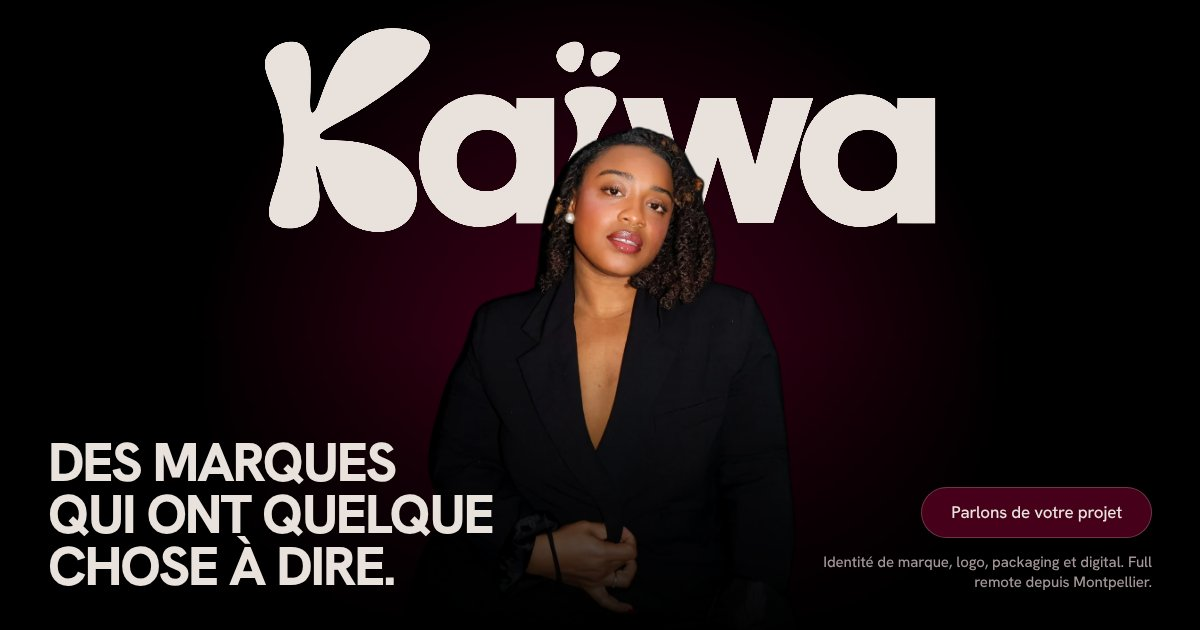
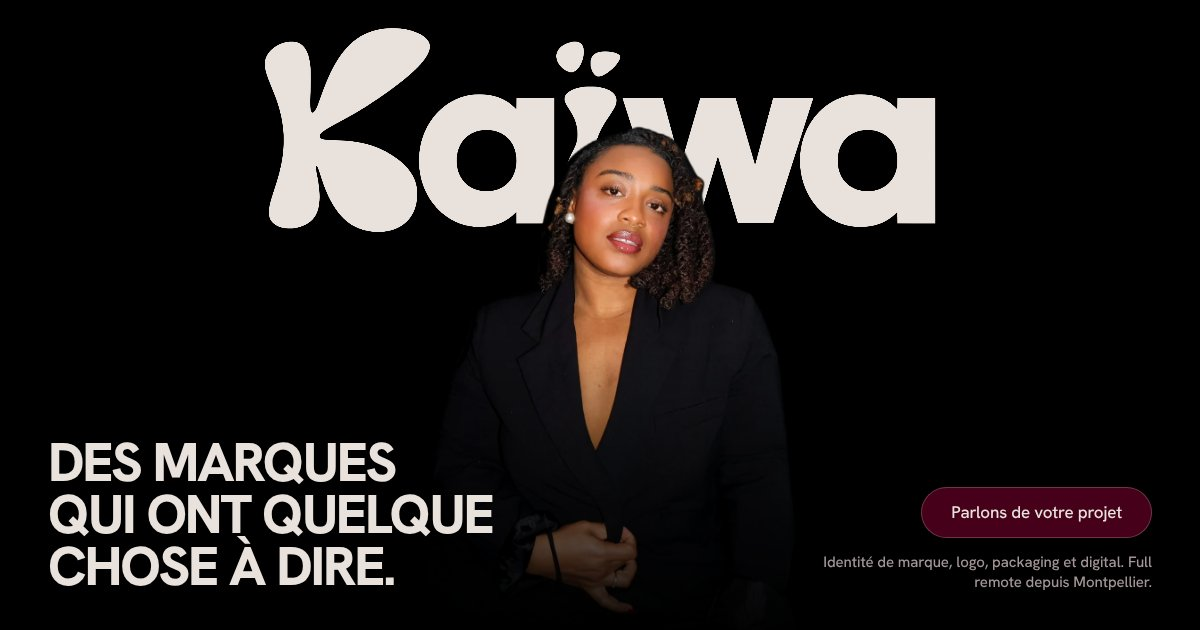
Keep the hero stage pure black behind the Kaïwa wordmark
Claude-Session: https://claude.ai/code/session_01SReykUvmbXh6gMu6iUEoV7

diff --git a/index.html b/index.html
@@ -491,7 +491,6 @@ dialog.cs::backdrop { background: rgb(0 0 0 / 0.7); -webkit-backdrop-filter: blu
   <div class="hero-pin">
     <div class="hero-word" id="heroWord"><svg class="hw" viewBox="-20 -20 2334 740" role="img" aria-label="Kaïwa"><g fill="currentColor"><g class="hw-l" style="--i:0"><path style="transform-origin:286px 696px" fill-rule="evenodd" d="M405.72 695.49C419.87 693.90 429.36 692.11 437.75 689.48C438.57 689.22 440.26 688.69 441.50 688.30C448.48 686.11 459.05 681.42 464.75 677.98C466.12 677.16 467.59 676.33 468.00 676.15C471.97 674.43 485.33 663.73 490.79 657.90C500.08 647.96 508.53 634.97 513.17 623.50C513.67 622.26 514.27 620.80 514.51 620.25C514.93 619.30 517.52 611.41 518.46 608.25C522.86 593.41 525.02 570.51 523.48 555.00C522.23 542.34 521.56 538.82 518.01 526.25C517.49 524.40 515.64 519.27 514.77 517.25C511.23 509.09 509.98 506.56 506.33 500.25C495.96 482.30 481.40 466.32 460.75 450.23C453.42 444.51 436.30 432.98 427.75 428.00C426.93 427.52 424.23 425.95 421.75 424.51C419.27 423.07 413.09 419.84 408.00 417.32C399.21 412.97 397.42 412.14 392.75 410.23C391.65 409.77 390.07 409.11 389.25 408.76C387.92 408.19 385.49 407.25 377.53 404.26C374.93 403.29 366.87 400.65 361.50 399.02C359.44 398.39 357.19 397.70 356.50 397.48C355.81 397.25 352.32 396.37 348.75 395.52C345.18 394.66 341.46 393.74 340.50 393.48C338.35 392.89 326.79 390.58 322.88 389.96C321.29 389.71 318.59 389.26 316.88 388.97C299.01 385.97 276.73 384.15 243.75 383.00C216.58 382.05 206.91 381.14 200.25 378.88C187.96 374.73 187.82 365.76 199.88 355.70C203.10 353.03 216.13 344.00 216.78 344.00C216.96 344.00 217.69 343.58 218.42 343.06C219.15 342.54 220.59 341.64 221.62 341.06C222.66 340.48 224.29 339.55 225.25 339.00C230.05 336.26 230.90 335.78 232.75 334.75C233.85 334.14 236.10 332.90 237.75 332.00C239.40 331.10 241.76 329.80 243.00 329.11C244.24 328.42 246.71 327.07 248.50 326.12C250.29 325.16 252.93 323.73 254.38 322.94C255.82 322.15 258.18 320.86 259.62 320.07C261.07 319.28 263.54 317.93 265.12 317.07C266.71 316.21 269.18 314.86 270.62 314.07C272.07 313.28 274.54 311.93 276.12 311.07C277.71 310.21 280.29 308.79 281.88 307.93C283.46 307.07 285.71 305.83 286.88 305.18C288.04 304.53 290.07 303.41 291.38 302.68C292.68 301.96 295.21 300.52 297.00 299.50C298.79 298.48 301.26 297.07 302.50 296.38C306.29 294.27 314.55 289.48 318.45 287.13C320.48 285.90 322.90 284.47 323.82 283.95C324.75 283.43 326.34 282.52 327.37 281.94C328.40 281.36 330.19 280.23 331.34 279.44C332.49 278.65 333.56 278.00 333.72 278.00C333.88 278.00 335.19 277.25 336.63 276.33C338.07 275.41 340.82 273.68 342.75 272.50C344.68 271.31 348.25 269.08 350.69 267.55C357.25 263.42 387.50 243.38 393.00 239.52C395.61 237.68 400.79 234.07 404.50 231.50C420.12 220.67 432.37 211.85 448.25 200.00C507.92 155.46 545.42 118.31 559.76 89.50C571.13 66.66 569.12 50.14 553.14 34.97C542.69 25.04 529.42 17.76 510.25 11.42C495.10 6.41 480.87 3.61 460.00 1.52C453.25 0.84 425.74 0.84 419.81 1.52C417.30 1.80 413.11 2.26 410.50 2.54C401.06 3.55 386.69 6.36 376.27 9.22C371.50 10.54 358.29 15.05 357.78 15.55C357.51 15.80 357.01 16.00 356.64 16.00C355.45 16.00 337.46 24.62 332.04 27.79C299.34 46.91 269.85 78.28 245.37 120.00C242.86 124.27 242.04 125.71 238.98 131.25C236.70 135.38 227.07 154.55 225.29 158.51C224.49 160.29 223.07 163.44 222.13 165.50C220.37 169.36 219.55 171.21 218.25 174.25C216.42 178.52 215.87 179.81 215.50 180.75C215.28 181.30 214.76 182.54 214.34 183.50C213.93 184.46 212.31 188.51 210.75 192.50C209.19 196.49 207.73 200.20 207.50 200.75C207.28 201.30 206.38 203.66 205.50 206.00C204.62 208.34 203.72 210.70 203.50 211.25C203.12 212.19 202.44 214.04 200.00 220.75C199.45 222.26 198.55 224.74 198.00 226.25C223.21 156.93 183.62 265.79 194.00 237.25C193.45 238.76 192.55 241.24 192.00 242.75C191.45 244.26 190.55 246.74 190.00 248.25C187.55 254.98 186.88 256.81 186.50 257.75C186.28 258.30 185.72 259.76 185.26 261.00C184.79 262.24 184.08 264.04 183.66 265.00C183.24 265.96 182.72 267.20 182.50 267.75C178.50 277.83 172.51 287.05 169.01 288.50C165.34 290.02 162.03 286.39 160.56 279.25C158.73 270.31 158.57 250.21 160.06 218.00C160.81 201.95 161.01 149.20 160.36 140.50C159.19 124.91 157.22 111.97 154.02 99.00C153.36 96.30 151.71 90.99 150.76 88.50C150.29 87.26 149.74 85.80 149.53 85.25C147.93 81.00 142.43 70.97 139.73 67.38C132.89 58.29 123.04 51.35 113.50 48.90C106.10 47.00 104.98 46.88 95.25 46.82C85.10 46.76 82.87 47.00 74.00 49.11C49.91 54.82 27.32 69.73 14.94 88.10C3.57 104.96 1.28 121.95 7.00 147.00C8.73 154.57 13.69 169.35 18.55 181.38C18.80 181.99 19.19 183.01 19.43 183.62C19.67 184.24 20.15 185.43 20.50 186.25C20.85 187.07 21.30 188.20 21.50 188.75C22.01 190.14 22.72 191.85 23.95 194.62C24.53 195.92 25.00 197.28 25.00 197.64C25.00 198.01 25.19 198.51 25.43 198.77C25.82 199.21 37.84 229.29 40.10 235.50C40.65 237.01 41.28 238.70 41.51 239.25C42.84 242.43 49.80 263.32 51.05 267.88C51.30 268.77 51.73 270.29 52.00 271.25C52.27 272.21 52.73 273.79 53.00 274.75C54.35 279.46 54.60 280.38 54.99 282.00C55.22 282.96 55.95 285.89 56.62 288.50C57.29 291.11 58.13 294.60 58.48 296.25C58.83 297.90 59.29 299.93 59.50 300.75C59.88 302.23 60.54 305.54 61.49 310.62C61.75 312.07 62.18 314.38 62.44 315.75C64.36 325.91 66.30 341.72 67.48 356.75C68.93 375.37 68.30 405.89 66.03 426.50C65.27 433.39 64.63 438.54 64.32 440.25C64.18 441.07 63.80 443.55 63.49 445.75C63.18 447.95 62.73 450.76 62.50 452.00C62.27 453.24 61.83 455.60 61.54 457.25C61.25 458.90 60.64 462.05 60.19 464.25C59.74 466.45 59.19 469.15 58.96 470.25C58.74 471.35 58.34 473.15 58.08 474.25C57.82 475.35 57.33 477.49 57.00 479.00C56.42 481.64 56.17 482.71 55.02 487.38C54.74 488.54 54.29 490.34 54.04 491.38C53.58 493.27 52.26 498.23 50.77 503.75C49.57 508.15 47.02 517.06 46.54 518.50C46.31 519.19 45.61 521.44 44.99 523.50C42.99 530.16 39.44 541.34 35.00 555.00C33.44 559.81 31.42 566.11 30.51 569.00C29.60 571.89 28.47 575.49 28.00 577.00C27.52 578.51 26.85 580.76 26.51 582.00C26.17 583.24 25.71 584.81 25.50 585.50C25.29 586.19 24.84 587.76 24.50 589.00C24.16 590.24 23.71 591.81 23.49 592.50C23.27 593.19 22.83 594.88 22.52 596.25C22.20 597.62 21.73 599.54 21.48 600.50C20.93 602.59 19.34 610.79 18.49 615.95C17.00 625.02 17.87 640.15 20.31 647.36C24.64 660.15 35.48 670.98 50.25 677.25C51.35 677.72 52.70 678.29 53.25 678.53C55.71 679.57 61.13 681.06 67.00 682.32C74.65 683.95 94.99 684.67 101.54 683.53C103.03 683.27 105.94 682.80 108.00 682.49C114.09 681.57 117.38 680.79 124.75 678.51C157.25 668.47 177.61 648.53 185.77 618.75C192.17 595.41 192.59 565.94 187.03 530.00C186.76 528.21 186.31 525.29 186.04 523.50C185.78 521.71 185.32 518.96 185.03 517.38C184.74 515.79 184.28 513.26 184.00 511.75C183.72 510.24 183.28 507.76 183.00 506.25C182.72 504.74 182.29 502.32 182.04 500.88C181.78 499.43 181.25 496.56 180.84 494.50C180.44 492.44 179.85 489.06 179.52 487.00C179.20 484.94 178.73 482.03 178.47 480.54C177.41 474.44 178.12 470.00 180.16 470.00C181.32 470.00 183.59 473.64 185.46 478.50C186.36 480.84 187.29 483.20 187.52 483.75C187.95 484.75 188.56 486.61 193.51 502.00C197.48 514.36 199.20 519.51 202.01 527.50C203.42 531.49 204.75 535.31 204.97 536.00C205.35 537.15 207.53 542.87 208.50 545.25C208.72 545.80 209.51 547.83 210.25 549.75C210.98 551.67 211.88 553.92 212.23 554.75C212.59 555.58 213.22 557.04 213.63 558.00C214.04 558.96 214.72 560.54 215.13 561.50C218.22 568.70 219.87 572.26 224.06 580.75C243.67 620.49 267.70 649.99 295.86 668.91C298.39 670.61 300.56 672.00 300.68 672.00C300.80 672.00 302.33 672.87 304.07 673.93C308.22 676.45 318.63 681.43 324.00 683.48C326.34 684.37 328.70 685.28 329.25 685.51C330.54 686.06 335.62 687.69 338.50 688.49C339.74 688.83 341.31 689.29 342.00 689.51C342.69 689.73 344.38 690.16 345.75 690.48C347.12 690.80 349.04 691.25 350.00 691.48C355.31 692.76 367.63 694.71 374.75 695.40C381.23 696.04 400.40 696.09 405.72 695.49Z"/></g><g class="hw-l" style="--i:1"><path style="transform-origin:760px 679px" fill-rule="evenodd" d="M749.25 678.49C758.15 677.82 769.29 676.46 773.75 675.51C774.85 675.27 777.10 674.81 778.75 674.47C808.84 668.34 835.52 654.06 856.20 633.04C859.20 629.99 861.73 627.50 861.82 627.50C861.92 627.50 862.00 636.39 862.00 647.25L862.00 667.00L926.38 666.88L990.75 666.75L990.75 452.50L990.75 238.25L926.50 238.25L862.25 238.25L862.12 257.88C862.05 268.67 861.89 277.50 861.76 277.50C861.63 277.50 858.77 274.73 855.39 271.35C846.79 262.74 836.38 254.62 826.41 248.75C824.35 247.54 809.84 240.34 807.75 239.50C803.97 237.97 794.69 234.84 790.00 233.52C788.76 233.17 787.19 232.71 786.50 232.50C785.81 232.30 784.01 231.86 782.50 231.54C780.99 231.22 778.85 230.76 777.75 230.52C762.72 227.25 740.38 225.50 725.86 226.45C715.27 227.15 705.47 228.29 699.75 229.50C698.65 229.73 696.40 230.19 694.75 230.53C691.95 231.10 687.70 232.15 681.75 233.74C672.46 236.23 661.43 240.56 649.50 246.40C646.34 247.94 642.62 249.87 641.25 250.68C639.88 251.48 638.08 252.53 637.25 253.00C615.29 265.64 592.20 286.53 575.90 308.50C572.12 313.59 563.00 327.16 563.00 327.70C563.00 327.81 562.13 329.33 561.07 331.08C557.29 337.30 550.13 352.28 546.66 361.22C545.70 363.71 544.72 366.20 544.48 366.75C543.93 368.02 540.35 379.02 539.52 382.00C539.17 383.24 538.70 384.81 538.48 385.50C538.10 386.69 536.48 393.34 535.47 397.88C535.21 399.04 534.79 400.96 534.52 402.12C534.26 403.29 533.93 405.04 533.78 406.00C533.63 406.96 533.28 409.10 533.00 410.75C528.90 434.60 528.70 468.24 532.53 491.62C534.19 501.78 535.02 505.89 537.30 515.25C538.46 519.99 541.61 530.52 543.03 534.38C543.56 535.82 544.47 538.29 545.05 539.88C545.63 541.46 546.30 543.26 546.55 543.88C546.80 544.49 547.20 545.51 547.45 546.12C548.01 547.52 549.06 549.99 550.49 553.25C552.16 557.05 557.28 567.35 559.33 571.00C560.32 572.79 561.39 574.71 561.70 575.27C572.19 594.56 593.59 619.79 612.00 634.60C619.17 640.37 629.95 647.99 635.11 650.94C636.01 651.45 638.66 652.98 641.00 654.33C646.02 657.24 659.85 664.00 660.77 664.00C660.90 664.00 661.96 664.43 663.13 664.94C666.24 666.33 669.07 667.37 674.97 669.28C685.70 672.77 691.35 674.17 704.00 676.51C706.34 676.94 713.00 677.70 720.75 678.44C727.41 679.07 741.28 679.09 749.25 678.49ZM747.75 556.43C715.45 552.40 691.67 538.63 675.80 514.75C672.71 510.11 667.81 500.88 666.49 497.25C666.30 496.70 665.89 495.69 665.60 495.00C664.18 491.67 662.28 484.86 660.51 476.75C658.06 465.52 657.64 447.47 659.54 434.75C660.83 426.07 661.69 422.33 664.22 414.46C674.47 382.56 699.77 359.15 732.25 351.53C733.62 351.21 735.54 350.75 736.50 350.52C738.57 350.02 744.35 349.23 751.10 348.51C764.76 347.07 781.29 349.03 796.00 353.85C824.18 363.09 846.11 384.64 855.43 412.25C860.94 428.55 863.40 449.69 861.50 464.35C858.93 484.17 856.48 492.80 849.65 506.21C841.17 522.85 825.83 537.94 809.25 545.94C803.06 548.92 797.65 551.10 794.00 552.09C793.04 552.34 791.46 552.78 790.50 553.06C779.12 556.34 759.48 557.89 747.75 556.43Z"/></g><g class="hw-l" style="--i:2"><path style="transform-origin:1115px 685px" fill-rule="evenodd" d="M1123.50 684.27C1132.32 682.30 1136.93 680.34 1144.25 675.44C1158.66 665.79 1168.26 652.36 1171.53 637.25C1172.34 633.47 1172.36 617.92 1171.55 613.19C1171.23 611.30 1170.73 608.40 1170.45 606.75C1170.16 605.10 1169.74 602.85 1169.49 601.75C1168.96 599.34 1167.04 591.15 1166.68 589.75C1166.54 589.20 1166.23 587.96 1166.00 587.00C1165.77 586.04 1165.09 583.45 1164.50 581.25C1163.91 579.05 1163.23 576.46 1162.99 575.50C1162.76 574.54 1162.31 572.85 1162.00 571.75C1161.69 570.65 1161.24 568.96 1161.01 568.00C1160.77 567.04 1160.11 564.51 1159.54 562.38C1157.45 554.58 1156.53 551.13 1155.00 545.25C1154.14 541.95 1152.98 537.56 1152.43 535.50C1151.87 533.44 1151.23 530.96 1151.00 530.00C1150.77 529.04 1149.87 525.55 1149.00 522.25C1148.13 518.95 1147.23 515.46 1147.00 514.50C1146.48 512.27 1142.12 494.82 1141.51 492.50C1141.03 490.69 1139.30 483.36 1138.47 479.62C1138.21 478.46 1137.78 476.49 1137.50 475.25C1137.22 474.01 1136.78 472.04 1136.51 470.88C1135.87 468.06 1134.26 459.62 1133.54 455.25C1133.22 453.32 1132.76 450.51 1132.51 449.00C1131.14 440.68 1130.83 436.17 1130.83 424.50C1130.82 412.64 1131.14 408.13 1132.57 399.75C1133.47 394.49 1135.51 385.23 1136.54 381.75C1137.45 378.69 1140.07 370.72 1140.48 369.75C1140.72 369.20 1141.51 367.18 1142.25 365.25C1144.09 360.43 1144.56 359.38 1149.06 350.16C1155.92 336.10 1162.23 325.64 1178.94 300.59C1196.91 273.66 1201.56 264.25 1203.51 250.85C1205.34 238.30 1198.27 225.24 1184.75 216.16C1179.27 212.48 1169.07 207.90 1162.00 205.93C1161.04 205.66 1159.46 205.22 1158.50 204.94C1153.32 203.45 1146.26 202.11 1134.50 200.41C1128.75 199.58 1100.20 199.59 1094.50 200.43C1092.16 200.77 1088.67 201.29 1086.75 201.57C1081.76 202.30 1078.98 202.86 1071.50 204.59C1052.58 208.98 1035.08 219.46 1029.26 229.86C1026.32 235.13 1025.02 243.63 1026.44 248.30C1026.68 249.10 1027.18 250.76 1027.54 252.00C1028.80 256.35 1034.99 267.49 1041.99 278.00C1049.09 288.65 1061.00 310.91 1061.00 313.52C1061.00 313.79 1061.22 314.40 1061.48 314.88C1063.73 318.92 1067.59 334.07 1069.54 346.50C1070.44 352.23 1070.46 373.51 1069.57 378.25C1067.88 387.23 1065.50 396.05 1063.47 400.88C1063.21 401.49 1062.80 402.51 1062.55 403.12C1060.44 408.33 1059.04 411.20 1048.19 432.51C1044.52 439.72 1041.13 447.05 1039.52 451.25C1039.31 451.80 1038.90 452.81 1038.61 453.50C1036.21 459.27 1033.26 468.91 1031.53 476.62C1030.33 482.01 1030.05 483.41 1029.55 486.75C1025.53 513.49 1026.16 538.33 1031.57 566.25C1034.13 579.47 1039.42 598.62 1042.48 605.75C1042.71 606.30 1043.64 608.66 1044.54 611.00C1051.23 628.42 1061.74 646.84 1071.93 659.04C1083.54 672.95 1095.76 681.37 1108.75 684.43C1111.87 685.16 1119.91 685.08 1123.50 684.27Z"/></g><g class="hw-l" style="--i:3"><path style="transform-origin:1549px 667px" fill-rule="evenodd" d="M1481.72 663.25C1482.34 661.33 1483.13 658.74 1483.48 657.50C1483.83 656.26 1484.30 654.69 1484.52 654.00C1484.75 653.31 1485.42 651.06 1486.02 649.00C1486.62 646.94 1487.29 644.69 1487.52 644.00C1487.75 643.31 1488.42 641.06 1489.02 639.00C1489.62 636.94 1490.29 634.69 1490.52 634.00C1490.75 633.31 1491.42 631.06 1492.02 629.00C1492.62 626.94 1493.29 624.69 1493.51 624.00C1493.93 622.73 1494.96 619.29 1496.96 612.50C1497.57 610.44 1498.25 608.19 1498.48 607.50C1498.71 606.81 1499.38 604.56 1499.98 602.50C1500.58 600.44 1501.25 598.19 1501.48 597.50C1501.70 596.81 1502.17 595.24 1502.51 594.00C1502.85 592.76 1503.52 590.51 1504.00 589.00C1504.48 587.49 1505.15 585.24 1505.50 584.00C1505.85 582.76 1506.52 580.51 1507.00 579.00C1507.48 577.49 1508.15 575.24 1508.50 574.00C1508.85 572.76 1509.52 570.51 1510.00 569.00C1510.48 567.49 1511.15 565.24 1511.50 564.00C1511.85 562.76 1512.52 560.51 1513.00 559.00C1513.48 557.49 1514.15 555.24 1514.50 554.00C1514.85 552.76 1515.52 550.51 1516.00 549.00C1516.48 547.49 1517.15 545.24 1517.50 544.00C1517.85 542.76 1518.52 540.51 1519.00 539.00C1519.48 537.49 1520.15 535.24 1520.49 534.00C1520.83 532.76 1521.30 531.19 1521.52 530.50C1521.94 529.21 1523.05 525.50 1524.96 519.00C1525.57 516.94 1526.25 514.69 1526.48 514.00C1526.71 513.31 1527.38 511.06 1527.98 509.00C1528.58 506.94 1529.25 504.69 1529.48 504.00C1529.71 503.31 1530.38 501.06 1530.98 499.00C1531.58 496.94 1532.25 494.69 1532.48 494.00C1532.71 493.31 1533.38 491.06 1533.98 489.00C1534.58 486.94 1535.25 484.69 1535.48 484.00C1535.71 483.31 1536.38 481.06 1536.98 479.00C1537.58 476.94 1538.25 474.69 1538.48 474.00C1538.71 473.31 1539.38 471.06 1539.98 469.00C1540.58 466.94 1541.25 464.69 1541.48 464.00C1541.70 463.31 1542.17 461.74 1542.51 460.50C1542.85 459.26 1543.52 457.01 1544.00 455.50C1544.48 453.99 1545.15 451.74 1545.50 450.50C1545.85 449.26 1546.53 447.01 1547.02 445.50C1547.50 443.99 1548.04 442.13 1548.21 441.38C1548.53 439.96 1549.40 439.52 1549.70 440.62C1549.79 440.97 1550.31 442.71 1550.86 444.50C1551.41 446.29 1552.14 448.76 1552.49 450.00C1552.85 451.24 1553.52 453.49 1554.00 455.00C1554.48 456.51 1555.15 458.76 1555.50 460.00C1555.85 461.24 1556.52 463.49 1557.00 465.00C1557.48 466.51 1558.15 468.76 1558.50 470.00C1558.85 471.24 1559.52 473.49 1560.00 475.00C1560.48 476.51 1561.15 478.76 1561.50 480.00C1561.85 481.24 1562.52 483.49 1563.00 485.00C1563.48 486.51 1564.15 488.76 1564.50 490.00C1564.85 491.24 1565.52 493.49 1566.00 495.00C1566.48 496.51 1567.15 498.76 1567.49 500.00C1567.83 501.24 1568.30 502.81 1568.52 503.50C1568.75 504.19 1569.42 506.44 1570.02 508.50C1570.62 510.56 1571.29 512.81 1571.52 513.50C1571.75 514.19 1572.42 516.44 1573.02 518.50C1573.62 520.56 1574.29 522.81 1574.52 523.50C1574.75 524.19 1575.42 526.44 1576.02 528.50C1576.62 530.56 1577.29 532.81 1577.52 533.50C1577.75 534.19 1578.42 536.44 1579.02 538.50C1579.62 540.56 1580.29 542.81 1580.51 543.50C1580.93 544.77 1581.96 548.21 1583.96 555.00C1584.57 557.06 1585.25 559.31 1585.48 560.00C1585.71 560.69 1586.38 562.94 1586.98 565.00C1587.58 567.06 1588.25 569.31 1588.48 570.00C1588.70 570.69 1589.17 572.26 1589.51 573.50C1589.85 574.74 1590.52 576.99 1591.00 578.50C1591.48 580.01 1592.15 582.26 1592.50 583.50C1592.85 584.74 1593.52 586.99 1594.00 588.50C1594.48 590.01 1595.15 592.26 1595.50 593.50C1595.85 594.74 1596.52 596.99 1597.00 598.50C1597.48 600.01 1598.15 602.26 1598.50 603.50C1598.85 604.74 1599.52 606.99 1600.00 608.50C1600.48 610.01 1601.15 612.26 1601.50 613.50C1601.85 614.74 1602.52 616.99 1603.00 618.50C1603.48 620.01 1604.15 622.26 1604.50 623.50C1604.85 624.74 1605.52 626.99 1606.00 628.50C1606.48 630.01 1607.15 632.26 1607.50 633.50C1607.85 634.74 1608.52 636.99 1609.00 638.50C1609.48 640.01 1610.15 642.26 1610.49 643.50C1610.83 644.74 1611.30 646.31 1611.52 647.00C1611.75 647.69 1612.42 649.94 1613.02 652.00C1613.62 654.06 1614.29 656.31 1614.52 657.00C1614.75 657.69 1615.42 659.94 1616.02 662.00C1616.62 664.06 1617.19 666.03 1617.29 666.38C1617.43 666.88 1629.72 666.98 1677.54 666.88L1737.61 666.75L1738.24 665.00C1738.59 664.04 1739.84 660.21 1741.01 656.50C1742.19 652.79 1743.98 647.16 1745.00 644.00C1746.02 640.84 1747.82 635.21 1749.00 631.50C1750.18 627.79 1751.98 622.16 1753.00 619.00C1754.02 615.84 1755.82 610.21 1757.00 606.50C1758.18 602.79 1759.98 597.16 1761.00 594.00C1762.02 590.84 1763.82 585.21 1765.00 581.50C1766.18 577.79 1767.98 572.16 1769.00 569.00C1770.02 565.84 1771.82 560.21 1773.00 556.50C1774.18 552.79 1775.98 547.16 1777.00 544.00C1778.02 540.84 1779.82 535.21 1781.00 531.50C1782.18 527.79 1783.98 522.16 1785.00 519.00C1786.02 515.84 1787.82 510.21 1789.00 506.50C1790.18 502.79 1791.98 497.16 1793.00 494.00C1794.02 490.84 1795.82 485.21 1797.00 481.50C1798.18 477.79 1799.98 472.16 1801.00 469.00C1802.02 465.84 1803.82 460.21 1805.00 456.50C1806.18 452.79 1807.98 447.16 1809.00 444.00C1810.02 440.84 1811.82 435.21 1813.00 431.50C1814.18 427.79 1815.98 422.16 1817.00 419.00C1818.02 415.84 1819.82 410.21 1821.00 406.50C1822.18 402.79 1823.98 397.16 1825.00 394.00C1826.02 390.84 1827.82 385.21 1829.00 381.50C1830.18 377.79 1831.98 372.16 1833.00 369.00C1834.02 365.84 1835.82 360.21 1837.00 356.50C1838.18 352.79 1839.98 347.16 1841.00 344.00C1842.02 340.84 1843.82 335.21 1845.00 331.50C1846.18 327.79 1847.98 322.16 1849.00 319.00C1850.02 315.84 1851.82 310.21 1853.00 306.50C1854.18 302.79 1855.98 297.16 1857.00 294.00C1858.02 290.84 1859.82 285.21 1861.00 281.50C1862.18 277.79 1863.98 272.16 1865.00 269.00C1866.02 265.84 1867.82 260.21 1869.00 256.50C1870.19 252.79 1871.91 247.44 1872.83 244.62C1873.75 241.79 1874.50 239.15 1874.50 238.74C1874.50 237.72 1738.44 237.60 1737.62 238.62C1737.35 238.97 1736.74 240.71 1736.28 242.50C1734.94 247.63 1733.47 253.12 1733.00 254.75C1732.60 256.15 1732.12 257.92 1729.50 267.75C1728.95 269.81 1728.05 273.19 1727.50 275.25C1724.88 285.09 1724.40 286.87 1723.93 288.50C1723.66 289.46 1723.24 291.04 1723.00 292.00C1722.76 292.96 1722.34 294.54 1722.07 295.50C1721.60 297.13 1721.12 298.91 1718.50 308.75C1715.88 318.58 1715.40 320.35 1715.00 321.75C1714.60 323.15 1714.12 324.92 1711.50 334.75C1710.95 336.81 1710.05 340.19 1709.50 342.25C1706.88 352.09 1706.40 353.87 1705.93 355.50C1705.66 356.46 1705.24 358.04 1705.00 359.00C1704.76 359.96 1704.34 361.54 1704.07 362.50C1703.60 364.13 1703.12 365.91 1700.50 375.75C1697.88 385.58 1697.40 387.35 1697.00 388.75C1696.60 390.15 1696.12 391.92 1693.50 401.75C1692.95 403.81 1692.05 407.19 1691.50 409.25C1688.88 419.09 1688.40 420.87 1687.93 422.50C1687.66 423.46 1687.24 425.04 1687.00 426.00C1686.76 426.96 1686.34 428.54 1686.07 429.50C1685.60 431.13 1685.12 432.91 1682.50 442.75C1679.88 452.58 1679.40 454.35 1679.00 455.75C1678.76 456.57 1678.11 459.03 1677.56 461.20C1676.66 464.73 1675.80 466.59 1675.36 465.97C1675.28 465.85 1674.81 464.29 1674.32 462.50C1673.84 460.71 1673.23 458.52 1672.97 457.62C1672.71 456.73 1672.26 455.16 1671.97 454.12C1671.68 453.09 1671.23 451.52 1670.97 450.62C1670.42 448.71 1669.68 446.14 1669.04 443.88C1668.79 442.98 1667.88 439.89 1667.01 437.00C1666.15 434.11 1664.99 430.18 1664.44 428.25C1663.89 426.32 1663.22 423.96 1662.94 423.00C1662.67 422.04 1662.24 420.57 1662.00 419.75C1661.76 418.93 1661.34 417.46 1661.07 416.50C1660.80 415.54 1659.65 411.60 1658.50 407.75C1656.39 400.67 1655.98 399.26 1655.03 395.88C1654.74 394.84 1654.26 393.16 1653.97 392.12C1652.98 388.62 1652.58 387.25 1651.00 382.00C1650.13 379.11 1649.20 375.96 1648.93 375.00C1648.38 373.03 1647.67 370.53 1646.97 368.12C1646.71 367.23 1646.26 365.66 1645.97 364.62C1645.02 361.24 1644.61 359.83 1642.50 352.75C1641.35 348.90 1640.20 344.96 1639.93 344.00C1639.66 343.04 1639.24 341.57 1639.00 340.75C1638.76 339.93 1638.31 338.35 1638.00 337.25C1637.04 333.81 1636.62 332.36 1635.50 328.75C1634.90 326.82 1634.21 324.52 1633.96 323.62C1633.71 322.73 1633.28 321.21 1633.00 320.25C1632.72 319.29 1632.28 317.71 1632.00 316.75C1631.72 315.79 1631.28 314.21 1631.00 313.25C1630.72 312.29 1630.29 310.77 1630.04 309.88C1629.79 308.98 1628.88 305.89 1628.01 303.00C1627.15 300.11 1625.99 296.18 1625.44 294.25C1624.89 292.32 1624.23 290.02 1623.97 289.12C1623.71 288.23 1623.26 286.66 1622.97 285.62C1622.02 282.24 1621.61 280.83 1619.50 273.75C1617.51 267.06 1617.20 265.99 1616.06 262.00C1615.78 261.04 1615.33 259.46 1615.06 258.50C1614.78 257.54 1614.34 255.96 1614.07 255.00C1613.80 254.04 1612.87 250.89 1612.00 248.00C1611.13 245.11 1610.23 242.01 1610.01 241.11C1609.17 237.73 1614.37 238.00 1548.96 238.00L1489.54 238.00L1488.94 239.11C1488.61 239.73 1488.17 240.91 1487.95 241.74C1487.24 244.47 1486.60 246.68 1485.00 252.00C1484.13 254.89 1483.21 257.98 1482.96 258.88C1482.71 259.77 1482.29 261.23 1482.03 262.12C1481.33 264.53 1480.62 267.03 1480.07 269.00C1479.80 269.96 1478.65 273.90 1477.50 277.75C1475.39 284.83 1474.98 286.24 1474.03 289.62C1473.74 290.66 1473.29 292.23 1473.03 293.12C1472.77 294.02 1472.11 296.32 1471.56 298.25C1471.01 300.18 1469.85 304.11 1468.99 307.00C1468.12 309.89 1467.20 313.04 1466.93 314.00C1466.28 316.32 1465.54 318.91 1465.00 320.75C1464.45 322.59 1463.71 325.18 1463.07 327.50C1462.80 328.46 1462.10 330.82 1461.50 332.75C1460.43 336.21 1460.05 337.48 1459.03 341.12C1458.74 342.16 1458.26 343.84 1457.97 344.88C1457.68 345.91 1457.24 347.43 1457.00 348.25C1456.76 349.07 1456.11 351.32 1455.56 353.25C1455.01 355.18 1454.08 358.32 1453.49 360.25C1452.90 362.18 1452.21 364.48 1451.96 365.38C1451.71 366.27 1451.29 367.73 1451.03 368.62C1450.30 371.12 1449.61 373.55 1449.00 375.75C1448.08 379.05 1447.66 380.51 1446.00 386.00C1444.34 391.49 1443.92 392.95 1443.00 396.25C1442.47 398.16 1441.97 399.93 1441.01 403.25C1440.78 404.07 1439.65 407.90 1438.50 411.75C1437.35 415.60 1436.21 419.48 1435.96 420.38C1435.71 421.27 1435.29 422.73 1435.03 423.62C1434.77 424.52 1434.33 426.04 1434.06 427.00C1433.78 427.96 1433.11 430.32 1432.56 432.25C1432.01 434.18 1430.85 438.11 1429.99 441.00C1429.12 443.89 1428.20 447.04 1427.93 448.00C1427.66 448.96 1427.23 450.48 1426.97 451.38C1426.71 452.27 1426.29 453.73 1426.03 454.62C1425.77 455.52 1425.33 457.04 1425.05 458.00C1424.77 458.96 1424.14 461.27 1423.65 463.12C1423.15 464.98 1422.62 466.50 1422.45 466.50C1422.08 466.50 1421.47 464.49 1418.43 453.00C1417.88 450.94 1417.21 448.46 1416.93 447.50C1416.66 446.54 1416.24 444.96 1416.00 444.00C1415.76 443.04 1415.34 441.46 1415.07 440.50C1414.60 438.87 1414.12 437.09 1411.50 427.25C1410.95 425.19 1410.05 421.81 1409.50 419.75C1406.88 409.92 1406.40 408.15 1406.00 406.75C1405.60 405.35 1405.12 403.58 1402.50 393.75C1399.88 383.91 1399.40 382.13 1398.93 380.50C1398.66 379.54 1398.24 377.96 1398.00 377.00C1397.76 376.04 1397.34 374.46 1397.07 373.50C1396.60 371.87 1396.12 370.09 1393.50 360.25C1392.95 358.19 1392.05 354.81 1391.50 352.75C1388.88 342.92 1388.40 341.15 1388.00 339.75C1387.60 338.35 1387.12 336.58 1384.50 326.75C1381.88 316.91 1381.40 315.13 1380.93 313.50C1380.66 312.54 1380.24 310.96 1380.00 310.00C1379.76 309.04 1379.34 307.46 1379.07 306.50C1378.60 304.87 1378.12 303.09 1375.50 293.25C1374.95 291.19 1374.05 287.81 1373.50 285.75C1370.88 275.92 1370.40 274.15 1370.00 272.75C1369.60 271.35 1369.12 269.58 1366.50 259.75C1363.88 249.91 1363.40 248.13 1362.93 246.50C1362.66 245.54 1362.24 243.96 1362.01 243.00C1361.77 242.04 1361.38 240.57 1361.13 239.75L1360.68 238.25L1292.49 238.12C1254.99 238.05 1224.11 238.19 1223.88 238.42C1223.64 238.66 1224.22 241.19 1225.15 244.05C1226.08 246.91 1227.81 252.29 1229.00 256.00C1230.18 259.71 1231.98 265.34 1233.00 268.50C1234.02 271.66 1235.82 277.29 1237.00 281.00C1238.18 284.71 1239.98 290.34 1241.00 293.50C1242.02 296.66 1243.82 302.29 1245.00 306.00C1246.18 309.71 1247.98 315.34 1249.00 318.50C1250.02 321.66 1251.82 327.29 1253.00 331.00C1254.18 334.71 1255.98 340.34 1257.00 343.50C1258.02 346.66 1259.82 352.29 1261.00 356.00C1262.18 359.71 1263.98 365.34 1265.00 368.50C1266.02 371.66 1267.82 377.29 1269.00 381.00C1270.18 384.71 1271.98 390.34 1273.00 393.50C1274.02 396.66 1275.82 402.29 1277.00 406.00C1278.18 409.71 1279.98 415.34 1281.00 418.50C1282.02 421.66 1283.82 427.29 1285.00 431.00C1286.18 434.71 1287.98 440.34 1289.00 443.50C1290.02 446.66 1291.82 452.29 1293.00 456.00C1294.18 459.71 1295.98 465.34 1297.00 468.50C1298.02 471.66 1299.82 477.29 1301.00 481.00C1302.18 484.71 1303.98 490.34 1305.00 493.50C1306.02 496.66 1307.82 502.29 1309.00 506.00C1310.18 509.71 1311.98 515.34 1313.00 518.50C1314.02 521.66 1315.82 527.29 1317.00 531.00C1318.18 534.71 1319.98 540.34 1321.00 543.50C1322.02 546.66 1323.82 552.29 1325.00 556.00C1326.18 559.71 1327.98 565.34 1329.00 568.50C1330.02 571.66 1331.82 577.29 1333.00 581.00C1334.18 584.71 1335.98 590.34 1337.00 593.50C1338.02 596.66 1339.82 602.29 1341.00 606.00C1342.18 609.71 1343.98 615.34 1345.00 618.50C1346.02 621.66 1347.82 627.29 1349.00 631.00C1350.18 634.71 1351.98 640.34 1353.00 643.50C1354.55 648.33 1358.05 659.35 1359.51 664.00C1359.73 664.69 1360.03 665.64 1360.19 666.13C1360.46 666.96 1363.65 667.00 1420.53 666.88L1480.59 666.75L1481.72 663.25Z"/></g><g class="hw-l" style="--i:4"><path style="transform-origin:2059px 679px" fill-rule="evenodd" d="M2048.50 678.49C2056.71 677.81 2063.49 677.07 2067.50 676.42C2072.54 675.59 2080.54 674.04 2082.75 673.46C2089.38 671.71 2091.37 671.14 2096.75 669.41C2099.22 668.62 2101.64 667.75 2102.12 667.48C2102.60 667.22 2103.22 667.00 2103.50 667.00C2103.78 667.00 2105.08 666.52 2106.38 665.94C2107.68 665.36 2109.54 664.55 2110.50 664.14C2126.08 657.48 2141.50 646.94 2154.43 634.12C2157.83 630.76 2160.69 628.00 2160.80 628.00C2160.90 628.00 2161.05 636.72 2161.12 647.38L2161.25 666.75L2225.63 666.88L2290.00 667.00L2289.88 452.63L2289.75 238.25L2225.50 238.25L2161.25 238.25L2161.12 257.95L2160.99 277.65L2153.37 270.18C2140.12 257.19 2127.13 248.47 2108.86 240.29C2107.27 239.58 2105.75 239.00 2105.48 239.00C2105.21 239.00 2104.60 238.80 2104.12 238.56C2101.64 237.30 2095.11 235.03 2090.12 233.70C2088.68 233.32 2086.21 232.66 2084.62 232.24C2068.32 227.90 2042.13 225.35 2025.39 226.46C2016.32 227.06 2009.93 227.71 2004.50 228.59C1999.56 229.39 1991.49 230.95 1989.25 231.54C1982.38 233.35 1980.68 233.84 1973.75 236.09C1970.45 237.16 1967.36 238.25 1966.88 238.51C1966.40 238.78 1965.78 239.00 1965.50 239.00C1965.22 239.00 1964.04 239.43 1962.87 239.95C1961.70 240.48 1959.74 241.32 1958.50 241.83C1956.00 242.85 1941.59 250.01 1939.25 251.39C1938.42 251.88 1936.62 252.93 1935.25 253.74C1912.27 267.15 1889.75 288.17 1872.22 312.55C1864.57 323.18 1854.16 341.61 1849.36 353.00C1848.95 353.96 1848.23 355.65 1847.76 356.75C1847.29 357.85 1846.70 359.26 1846.45 359.88C1846.20 360.49 1845.80 361.51 1845.55 362.12C1844.00 365.95 1839.92 377.84 1838.97 381.25C1838.74 382.07 1838.30 383.65 1837.99 384.75C1837.69 385.85 1837.21 387.65 1836.94 388.75C1836.67 389.85 1836.24 391.59 1835.98 392.62C1835.10 396.07 1834.50 398.73 1833.98 401.50C1833.69 403.01 1833.24 405.38 1832.97 406.75C1832.06 411.42 1830.63 421.76 1829.94 428.75C1829.12 436.99 1828.81 463.47 1829.46 470.75C1830.55 483.13 1832.06 494.54 1833.49 501.25C1833.73 502.35 1834.20 504.60 1834.54 506.25C1835.38 510.30 1837.35 518.03 1838.97 523.62C1839.23 524.52 1839.66 526.04 1839.92 527.00C1841.18 531.62 1845.78 544.16 1848.35 550.00C1866.23 590.61 1889.88 619.85 1925.25 645.08C1927.51 646.70 1932.33 649.73 1936.25 651.99C1937.08 652.47 1938.88 653.53 1940.25 654.34C1941.62 655.16 1946.12 657.46 1950.25 659.46C1957.38 662.91 1958.48 663.42 1961.12 664.43C1962.55 664.98 1964.40 665.72 1966.00 666.38C1966.69 666.67 1968.04 667.17 1969.00 667.50C1969.96 667.83 1971.20 668.28 1971.75 668.50C1975.16 669.86 1985.89 672.94 1990.75 673.96C2002.85 676.50 2009.31 677.50 2019.50 678.42C2026.48 679.05 2041.34 679.09 2048.50 678.49ZM2047.00 556.41C2035.13 554.78 2025.99 552.60 2018.25 549.55C2013.73 547.77 2001.86 541.36 1998.00 538.62C1992.35 534.60 1982.33 524.83 1978.15 519.25C1970.58 509.14 1965.02 497.51 1961.78 485.00C1960.12 478.59 1960.12 478.56 1958.52 468.44C1957.85 464.18 1957.84 441.53 1958.51 436.85C1959.66 428.83 1960.16 426.24 1961.61 420.75C1969.48 390.94 1988.81 368.08 2015.75 356.74C2016.85 356.28 2018.20 355.71 2018.75 355.47C2020.49 354.73 2027.68 352.39 2029.50 351.97C2037.88 350.06 2041.00 349.54 2050.28 348.51C2058.21 347.62 2066.39 347.94 2077.25 349.56C2083.87 350.55 2086.48 351.13 2092.75 353.00C2128.50 363.65 2153.44 392.82 2159.45 431.00C2159.73 432.79 2160.19 435.74 2160.48 437.56C2161.13 441.68 2161.17 463.88 2160.53 467.54C2160.27 469.03 2159.80 471.94 2159.49 474.00C2155.59 499.46 2142.46 522.20 2123.20 536.84C2116.77 541.73 2111.44 544.74 2100.75 549.50C2099.12 550.23 2090.93 552.84 2088.50 553.40C2081.58 555.02 2079.27 555.43 2071.25 556.48C2066.55 557.10 2051.67 557.06 2047.00 556.41Z"/></g><g class="hw-dg" style="--i:0"><path style="transform-origin:1044px 98px" d="M1055.19 150.44C1069.35 146.56 1082.26 129.38 1088.39 106.25C1090.04 100.02 1090.18 99.26 1091.49 90.15C1093.48 76.21 1090.37 61.54 1084.00 54.80C1076.58 46.95 1060.79 44.90 1043.75 49.59C1011.84 58.37 993.75 80.46 998.79 104.50C999.22 106.56 999.69 108.87 999.84 109.63C999.99 110.39 1000.31 111.14 1000.56 111.29C1000.80 111.44 1001.00 111.90 1001.00 112.31C1001.00 113.56 1004.01 119.49 1006.80 123.75C1015.65 137.25 1028.46 146.83 1042.50 150.46C1045.02 151.11 1052.78 151.10 1055.19 150.44Z"/></g><g class="hw-dg" style="--i:1"><path style="transform-origin:1165px 123px" d="M1148.60 165.29C1169.87 159.61 1202.45 131.87 1212.36 111.00C1214.97 105.51 1215.24 104.44 1215.25 99.71C1215.25 95.48 1215.15 95.05 1213.82 93.29C1211.04 89.65 1202.96 85.72 1193.75 83.53C1192.38 83.20 1190.46 82.74 1189.50 82.50C1187.85 82.10 1185.87 81.78 1177.15 80.52C1172.47 79.84 1157.79 79.85 1153.56 80.53C1145.34 81.85 1140.11 83.20 1136.13 85.03C1134.96 85.56 1133.90 86.00 1133.77 86.00C1133.28 86.00 1127.71 89.69 1126.00 91.15C1121.44 95.02 1117.75 100.99 1116.50 106.50C1116.16 108.01 1115.68 109.90 1115.44 110.70C1114.82 112.76 1114.89 128.90 1115.54 132.09C1118.84 148.36 1126.06 160.37 1135.32 165.00C1137.71 166.19 1144.65 166.35 1148.60 165.29Z"/></g></g></svg></div>
     <p class="hero-tag" id="heroTag">Brand House · Since 2023</p>
-    <div class="hero-glow" id="heroGlow"></div>
     <img class="hero-karen" id="heroKaren" src="img/karen-cutout-portrait.webp" width="900" height="1131" alt="Karen Younes, fondatrice de Kaïwa Brand House" fetchpriority="high">
     <div class="hero-shade" id="heroShade"></div>
     <div class="hero-copy" id="heroCopy">
@@ -865,7 +864,7 @@ dialog.cs::backdrop { background: rgb(0 0 0 / 0.7); -webkit-backdrop-filter: blu
 
   // ---------- hero: the Kaïwa scroll stage ----------
   const hero = $('#top'), pin = hero.querySelector('.hero-pin'), word = $('#heroWord'), karen = $('#heroKaren');
-  const glow = $('#heroGlow'), copy = $('#heroCopy'), shade = $('#heroShade'), tag = $('#heroTag'), cue = $('#heroCue');
+  const copy = $('#heroCopy'), shade = $('#heroShade'), tag = $('#heroTag'), cue = $('#heroCue');
   const letters = $$('.hw-l'), dots = $$('.hw-dg');
   const WAVE = [-1, 0.7, -0.45, 0.9, -0.6];          // each letter drifts at its own pace, then settles
   let target = 0, shown = 0, px = 0, py = 0, mx = 0, my = 0, running = false;
@@ -888,7 +887,6 @@ dialog.cs::backdrop { background: rgb(0 0 0 / 0.7); -webkit-backdrop-filter: blu
     const k = ease(span(shown, 0.1, 0.62));
     karen.style.opacity = clamp(span(shown, 0.1, 0.32));
     karen.style.transform = `translate(calc(-50% + ${-mx * 8}px), ${(1 - k) * 92}%) scale(${1.06 - k * 0.06})`;
-    glow.style.opacity = ease(span(shown, 0.08, 0.5));
     const c = ease(span(shown, 0.5, 0.85));
     copy.style.opacity = c; copy.style.transform = `translateY(${(1 - c) * 40}px)`;
     shade.style.opacity = c;
